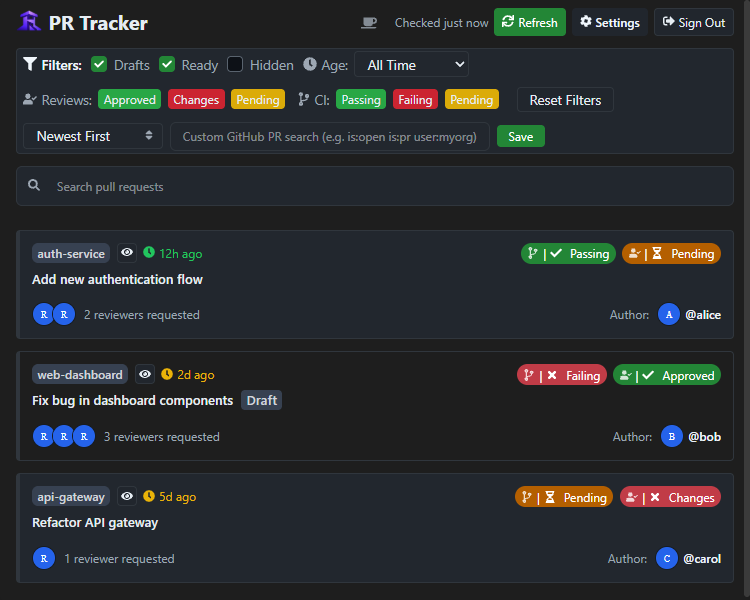
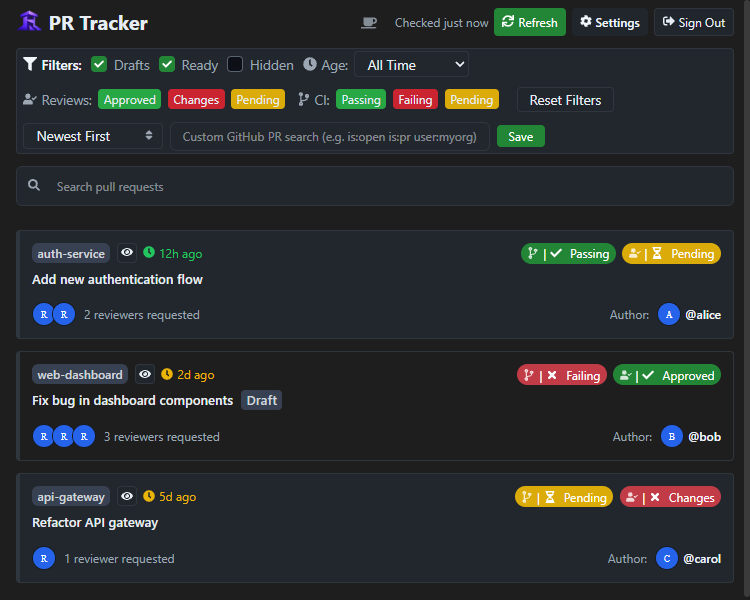
fix: restore original pending yellow and refresh README images

Changed region(s): [[0.828, 0.39, 0.9813, 0.45], [0.6747, 0.81, 0.828, 0.87]]

diff --git a/tests/e2e/popup-states.e2e.test.ts b/tests/e2e/popup-states.e2e.test.ts
@@ -287,7 +287,7 @@ describe('popup state journeys', () => {
                         expect(badge.lineHeight).toBe('16px');
                         expect(badge.foreground).toBe('rgb(255, 255, 255)');
                         if (badge.pending) {
-                            expect(badge.background).toBe('rgb(180, 95, 0)');
+                            expect(badge.background).toBe('rgb(219, 171, 9)');
                         }
                         expect(badge.textColours).toEqual([
                             badge.foreground,
@@ -308,8 +308,11 @@ describe('popup state journeys', () => {
                     expect(card.clipped).toBe(false);
                     expect(card.childrenFit).toBe(true);
                     expect(card.contrasts).toHaveLength(2);
-                    for (const contrast of card.contrasts) {
-                        expect(contrast).toBeGreaterThanOrEqual(4.5);
+                    for (const [index, contrast] of card.contrasts.entries()) {
+                        // Pending intentionally preserves the original yellow/white palette.
+                        if (!card.badgePresentation[index].pending) {
+                            expect(contrast).toBeGreaterThanOrEqual(4.5);
+                        }
                     }
                     expect(card.labels[0]).toMatch(/^CI: /);
                     expect(card.labels[1]).toMatch(/^Review: /);

diff --git a/src/styles/tokens.css b/src/styles/tokens.css
@@ -72,7 +72,7 @@
     --popup-status-foreground: #ffffff;
     --popup-card-status-passing: #238636;
     --popup-card-status-failing: #c13c47;
-    --popup-card-status-pending: #b45f00;
+    --popup-card-status-pending: var(--popup-status-pending);
     --popup-card-status-foreground: #ffffff;
     --popup-notification-enabled: #22c55e;
     --popup-error-background: #fee2e2;
